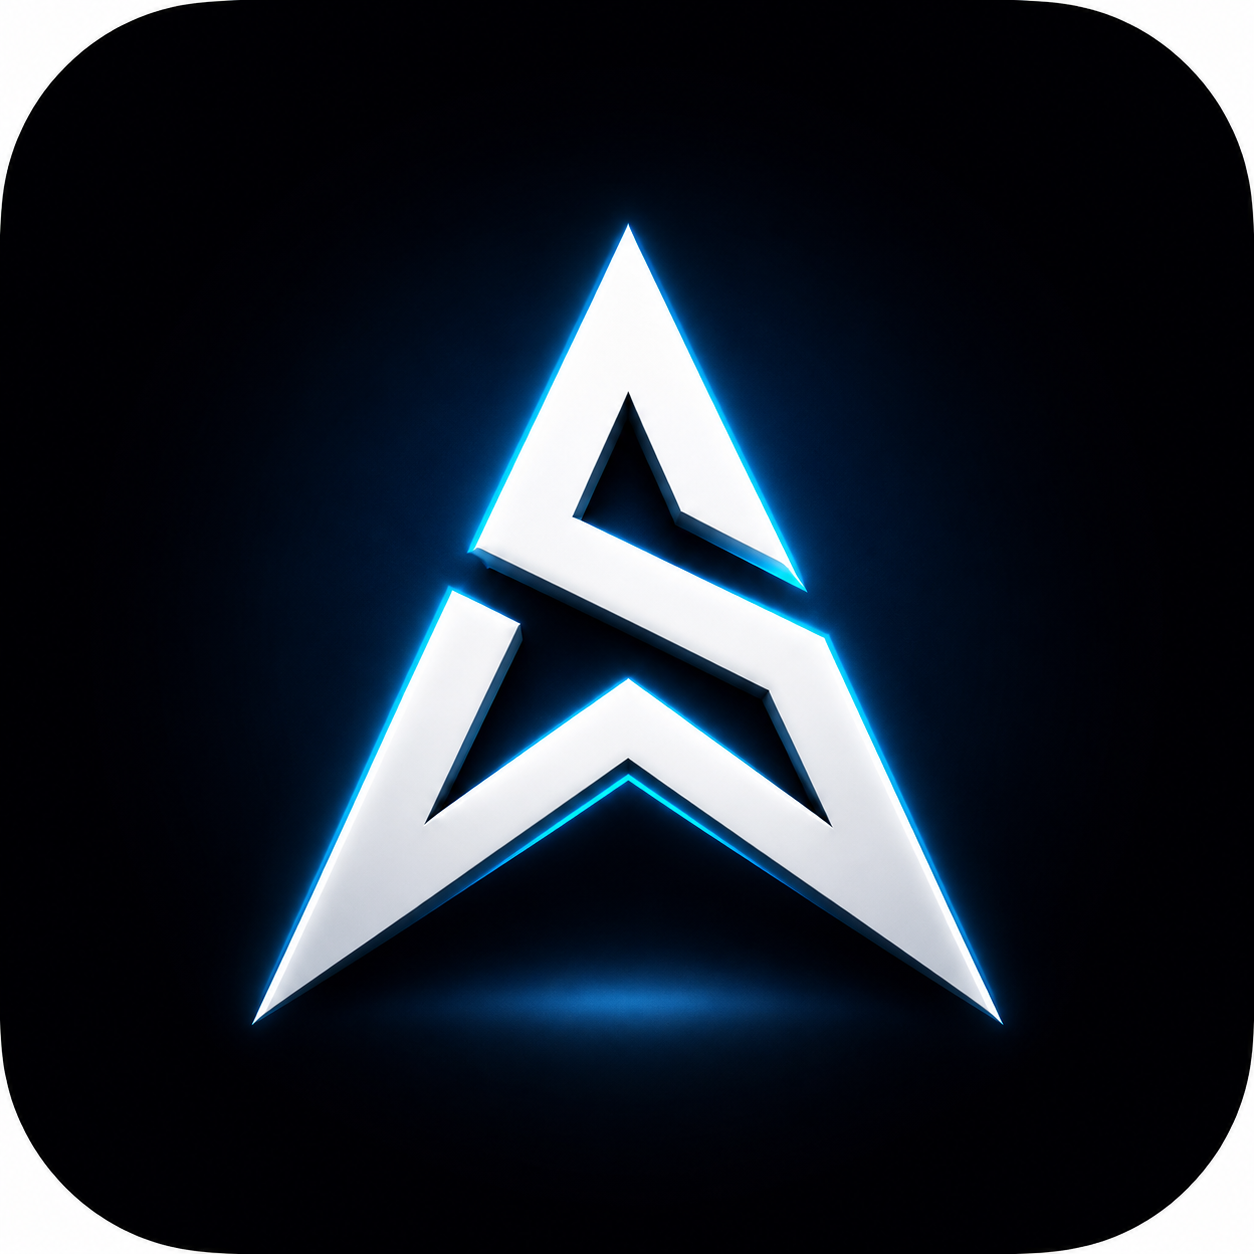
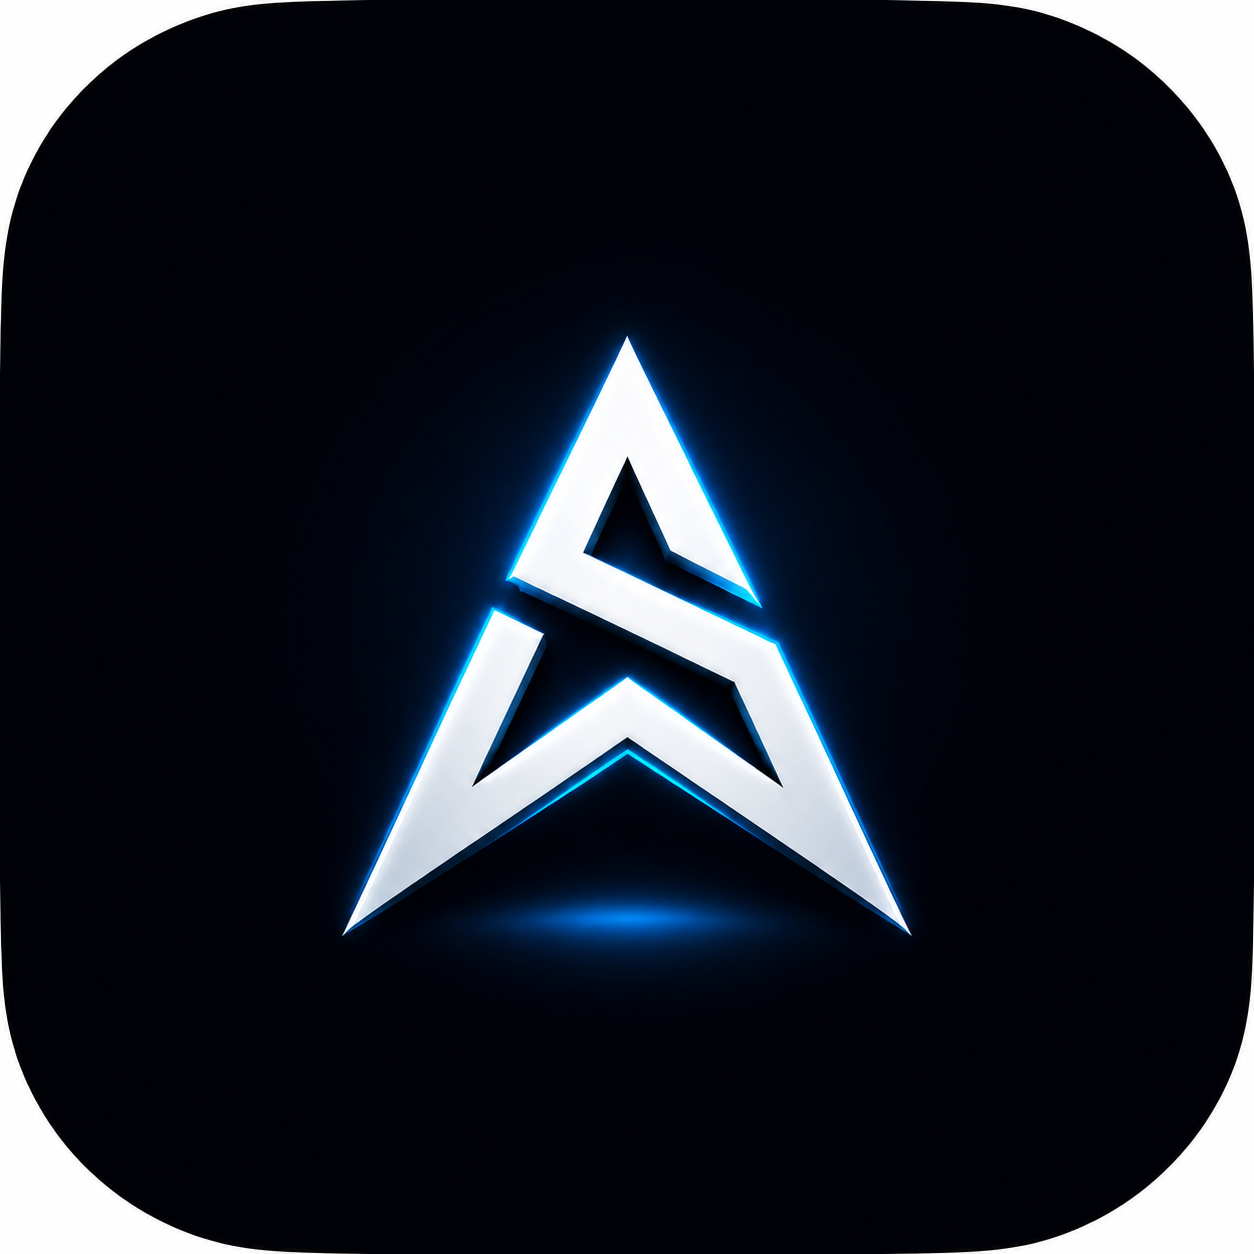
Auth + Splash + UI improvements

diff --git a/app/page.tsx b/app/page.tsx
@@ -172,24 +172,26 @@ function TeamBadge({
 
 function AtlasSplashScreen({ entered }: { entered: boolean }) {
   return (
-    <div className="fixed inset-0 z-50 flex items-center justify-center bg-[#050816] pb-16 text-white">
+    <div className="fixed inset-0 z-50 flex items-center justify-center bg-[#050816] text-white">
       <div
         className={`flex flex-col items-center transition-all duration-700 ease-out ${
-          entered ? "translate-y-0 scale-100 opacity-100" : "translate-y-3 scale-95 opacity-0"
+          entered
+            ? "-translate-y-[6vh] scale-100 opacity-100"
+            : "translate-y-[calc(-6vh+12px)] scale-95 opacity-0"
         }`}
       >
-        <div className="flex h-12 w-12 items-center justify-center rounded-full border border-cyan-300/20 bg-cyan-400/10 shadow-[0_0_18px_rgba(34,211,238,0.14)]">
+        <div className="flex h-[92px] w-[92px] items-center justify-center rounded-full border border-cyan-300/10 bg-cyan-400/[0.04] shadow-[0_0_24px_rgba(34,211,238,0.10)]">
           <img
             src="/icon.png"
             alt="Atlas Signals"
-            className="h-11 w-11 object-contain drop-shadow-[0_0_8px_rgba(34,211,238,0.28)]"
+            className="h-[68px] w-[68px] object-contain drop-shadow-[0_0_6px_rgba(34,211,238,0.18)]"
           />
         </div>
 
-        <p className="mt-7 text-[18px] font-bold uppercase tracking-[0.28em] text-cyan-200">
+        <p className="mt-7 text-[30px] font-bold uppercase tracking-[0.22em] text-cyan-200">
           ATLAS SIGNALS
         </p>
-        <p className="mt-3 text-[11px] font-semibold uppercase tracking-[0.32em] text-white/55">
+        <p className="mt-3 text-[12px] font-semibold uppercase tracking-[0.32em] text-white/65">
           SPORT INTELLIGENCE SYSTEM
         </p>
       </div>